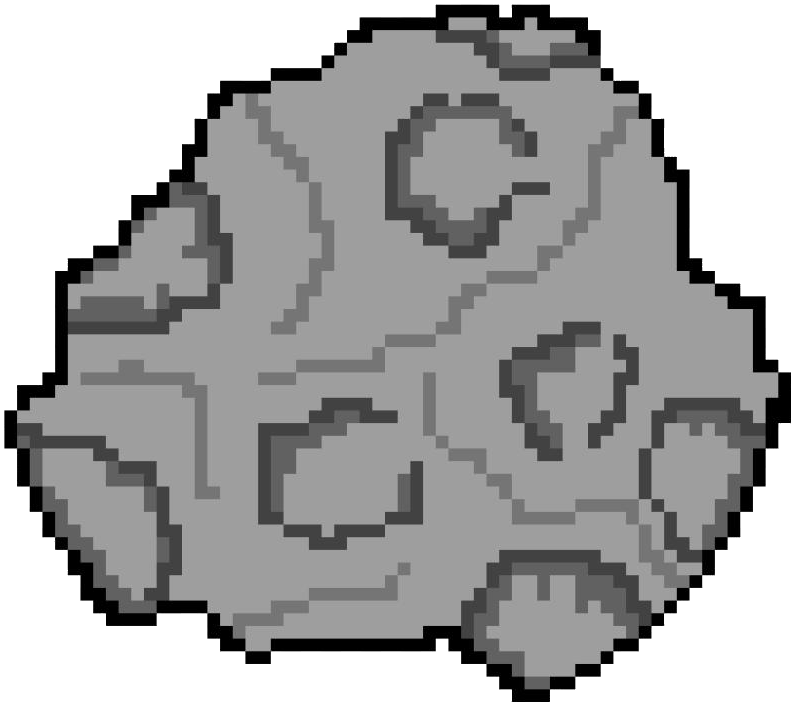
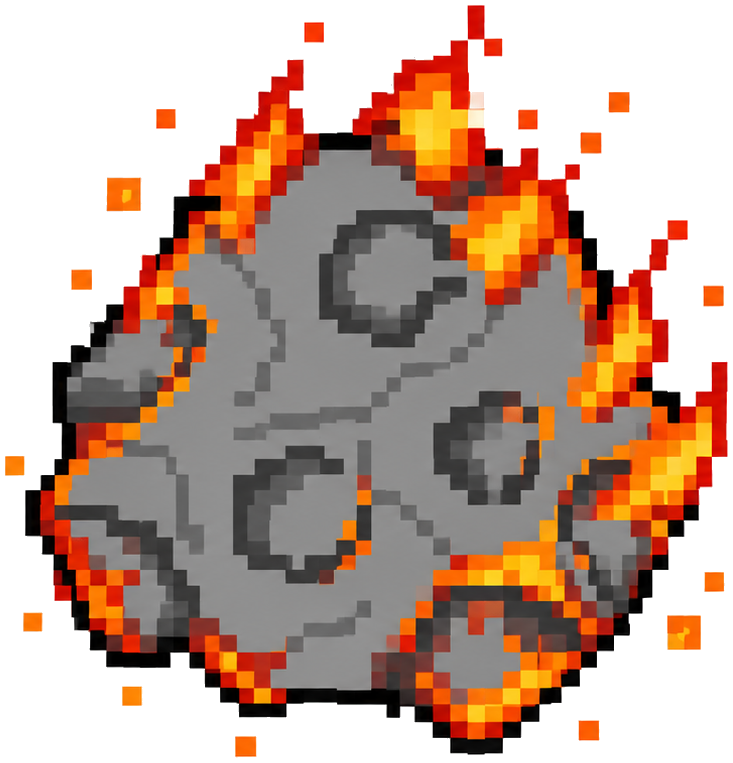
Update ORBITAL assets and fix README images

diff --git a/README.md b/README.md
@@ -6,7 +6,7 @@ A satellite survival game made in Excel VBA. Project inspired for Wrong by Hack 
 ## TO PLAY ORBITAL - 
 click on this [link](https://1drv.ms/x/c/659bf10470ee1146/IQBY8v-Y3jKrTZdMYFQl5f8oAU_c7hnoLzihQeygqLiB7N0?e=hHhQgD) and then download the spreadsheet and click on Launch Game on sheet 1 or just go to sheet 2 and press Start.
 
-<img src="assets/image.png" alt="ORBITAL gameplay screenshot" width="800">
+<img src="src/assets/image.png" alt="ORBITAL gameplay screenshot" width="800">
 
 ## About
 
@@ -22,27 +22,27 @@ ORBITAL is a small game built entirely in Microsoft Excel using VBA. Dodge space
 
 ## Rockets
 
-<img src="assets/rocket1.png" alt="Rocket 1" width="120">
+<img src="src/assets/rocket1.png" alt="Rocket 1" width="120">
 
-**Rocket 1** — Used in levels 1–5.
+**Rocket 1** - for level 1-5 
 
-<img src="assets/rocket2.png" alt="Rocket 2" width="120">
+<img src="src/assets/rocket2.png" alt="Rocket 2" width="120">
 
-**Rocket 2** — Used from level 6 onwards. for pros 
+**Rocket 2** - for level 6 to the end 
 
 ## Space Debris
 
-<img src="assets/stone1.png" alt="Regular space debris" width="100">
+<img src="src/assets/stone1.png" alt="Regular space debris" width="100">
 
 Regular debris.
 
-<img src="assets/stone2.png" alt="Flaming space debris" width="100">
+<img src="src/assets/stone2.png" alt="Flaming space debris" width="100">
 
 Flaming debris, introduced at level 6. for pros to stay pro 
 
 ## Background
 
-<img src="assets/space_bg.png" alt="Nice ORBITAL space background" width="600">
+<img src="src/assets/space_bg.png" alt="Nice ORBITAL space background" width="600">
 
 ## Running the game
 
